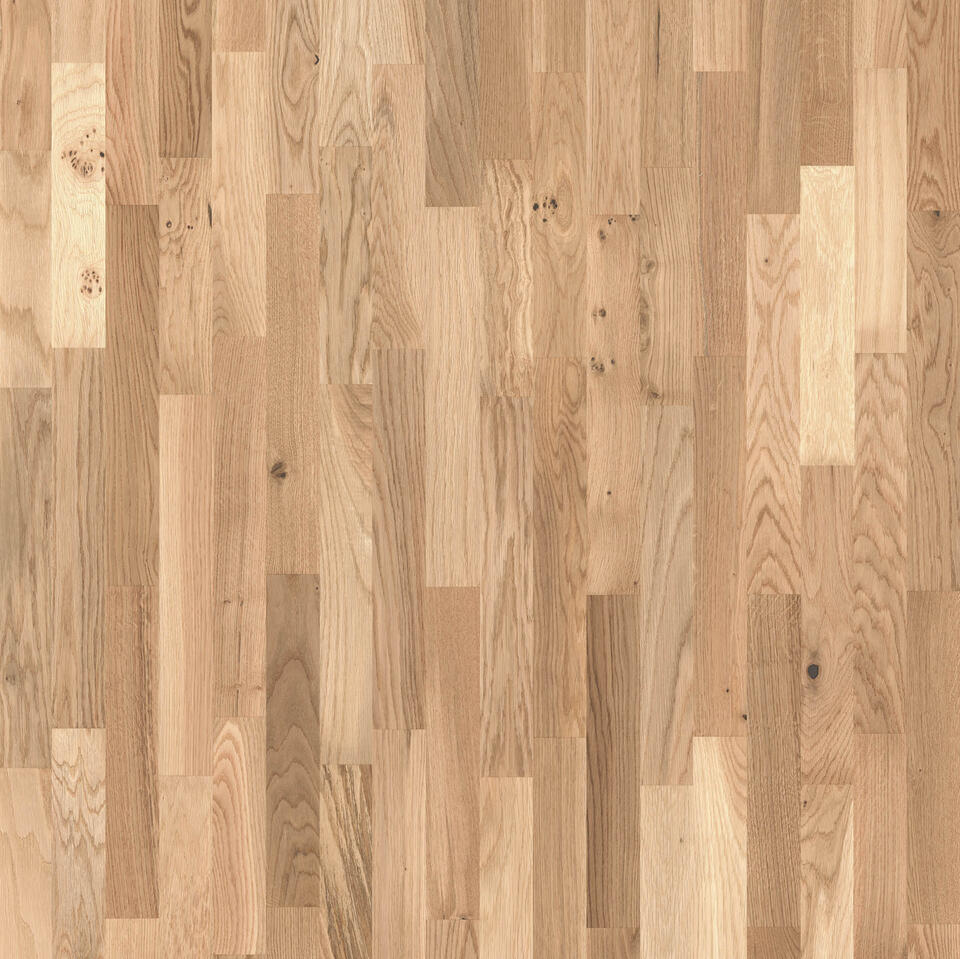
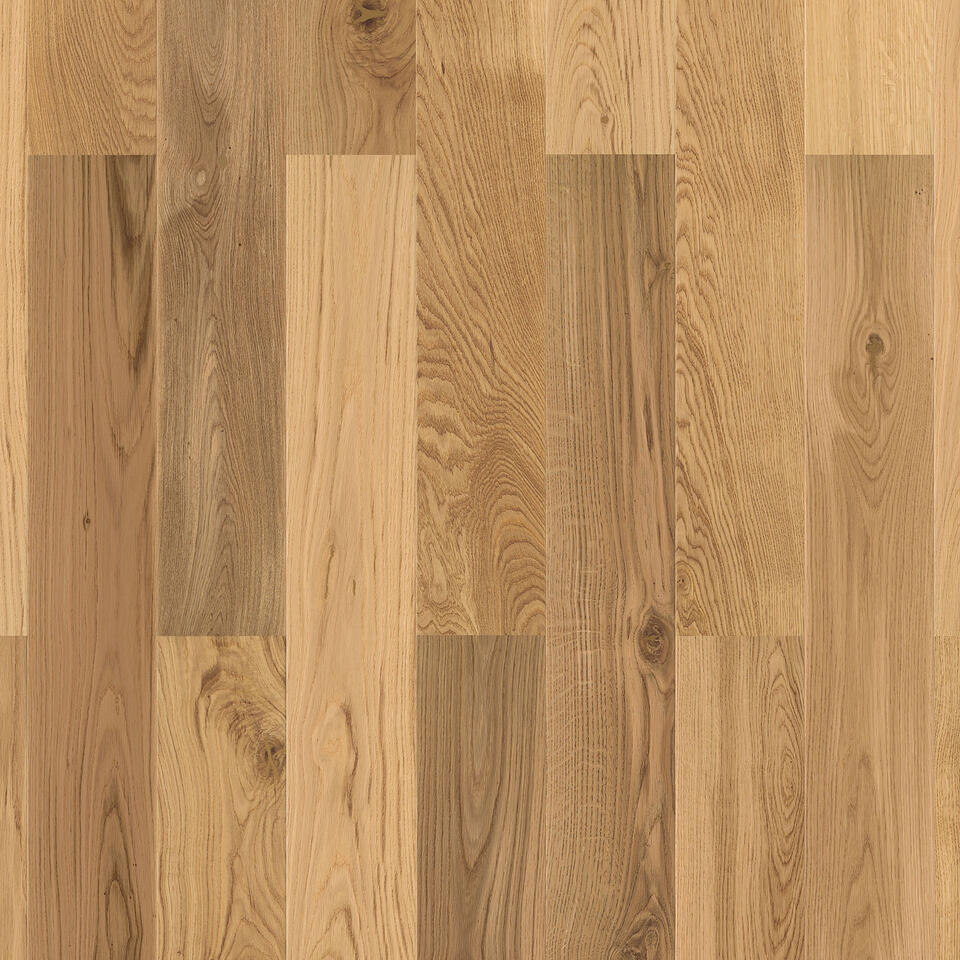
feat: Tango parket kolekcija - 7 dezena, opis i specifikacije; Hrast Vivid slika; root slike uklonjene

diff --git a/lib/data/tarkett-products.ts b/lib/data/tarkett-products.ts
@@ -1408,27 +1408,30 @@ export const tarkettProducts: Product[] = [
     "categoryId": "3",
     "brandId": "3",
     "shortDescription": "Tango Parket",
-    "description": "Tražite li parket koji će vašem prostoru dati impresivan izgled, uz dašak luksuza? Parket iz kolekcije Tango napravljen je od najfinijeg, visokokvalitetnog drveta iz Evrope i sveta.",
+    "description": "Tražite li parket koji će vašem prostoru dati impresivan izgled, uz dašak luksuza? Parket iz kolekcije Tango napravljen je od najfinijeg, visokokvalitetnog drveta iz Evrope i sveta. Prirodna struktura drveta dodatno se tretira bojom i brušenjem, stvarajući raznovrsne dezene i stilove - od dasaka koje imaju egzotičan šmek, preko tradicionalnih, modernih, retro i rustičnih. U okviru parket Tango kolekcije, na raspolaganju imate preko deset nijansi parketa (uz odgovarajući asortiman lajsni), te najzad možete da kreirate ambijent kakav ste oduvek želeli. U pitanju je Tarkett parket koji je izdržljiv i dugotrajan, a instalacija parketa je brza i jednostavna uz T-Lock sistem, a parket je spreman za upotrebu odmah nakon ugradnje. Zbog površinske zaštite (Proteco Strong lak), čišćenje parketa je lako, a održavanje ekonomično. Udobnost, privlačan dizajn i 30 godina Tarkett garancije čine Tango parkete sjajnim izborom.",
     "images": [
       {
         "id": "parket-tango-img",
-        "url": "https://media.tarkett-image.com/large/IN_SEE_Parket_Tango_Oak_Baron.jpg",
+        "url": "/images/products/hrast-antique-white-1-strip.jpg",
         "alt": "Tango",
         "isPrimary": true,
         "order": 0
       }
     ],
     "specs": [
-      {
-        "key": "collection",
-        "label": "Kolekcija",
-        "value": "Tango"
-      },
-      {
-        "key": "type",
-        "label": "Tip",
-        "value": "Parket"
-      }
+      { "key": "collection", "label": "Kolekcija", "value": "Tango" },
+      { "key": "type", "label": "Tip", "value": "Parket" },
+      { "key": "povrsinski_tretman", "label": "Površinski tretman", "value": "Proteco Natura, Proteco Lak" },
+      { "key": "ukupna_debljina", "label": "Ukupna debljina", "value": "14 mm" },
+      { "key": "povrsina_po_kutiji", "label": "Površina po kutiji", "value": "2,180 m²" },
+      { "key": "debljina_habajuceg_sloja", "label": "Debljina habajućeg sloja", "value": "2,80 mm" },
+      { "key": "ukupna_masa", "label": "Ukupna masa", "value": "7,5 kg/m²" },
+      { "key": "sistem_zakljucavanja", "label": "Sistem zaključavanja", "value": "T-Lock" },
+      { "key": "wood_type", "label": "Vrste drveta", "value": "Hrast" },
+      { "key": "tip_formata", "label": "Tip formata", "value": "Daska" },
+      { "key": "duzina", "label": "Dužina", "value": "2215 mm" },
+      { "key": "sirina", "label": "Širina", "value": "164 mm" },
+      { "key": "broj_artikala_po_kutiji", "label": "Broj artikala po kutiji", "value": "6" }
     ],
     "detailsSections": [
       {
@@ -2338,34 +2341,26 @@ export const tarkettProducts: Product[] = [
     updatedAt: new Date("2026-01-29T19:17:36.174Z")
   },
   {
-    "id": "oak-antique-white-1-strip",
+    "id": "hrast-antique-white-1-strip",
     "name": "Hrast ANTIQUE WHITE 1 Strip",
     "slug": "hrast-antique-white-1-strip",
     "sku": "oak-antique-white-1-strip",
     "categoryId": "3",
     "brandId": "3",
-    "shortDescription": "oak-antique-white-1-strip - Visokokvalitetni Tarkett parket.",
-    "description": "Tarkett Parket.",
+    "shortDescription": "Tango - Hrast ANTIQUE WHITE 1 Strip",
+    "description": "Tražite li parket koji će vašem prostoru dati impresivan izgled, uz dašak luksuza? Parket iz kolekcije Tango napravljen je od najfinijeg, visokokvalitetnog drveta iz Evrope i sveta.",
     "images": [
       {
-        "id": "oak-antique-white-1-strip-img",
-        "url": "https://media.tarkett-image.com/large/TH_1_Strip_Tango_Oak_Antique_White.jpg",
+        "id": "hrast-antique-white-1-strip-img",
+        "url": "/images/products/hrast-antique-white-1-strip.jpg",
         "alt": "Hrast ANTIQUE WHITE 1 Strip",
         "isPrimary": true,
         "order": 0
       }
     ],
     "specs": [
-      {
-        "key": "manufacturer",
-        "label": "Proizvođač",
-        "value": "Tarkett"
-      },
-      {
-        "key": "collection",
-        "label": "Kolekcija",
-        "value": "Parket"
-      }
+      { "key": "collection", "label": "Kolekcija", "value": "Tango" },
+      { "key": "wood_type", "label": "Vrste drveta", "value": "Hrast" }
     ],
     "price": 0,
     "priceUnit": "m²",
@@ -2412,34 +2407,26 @@ export const tarkettProducts: Product[] = [
     updatedAt: new Date("2026-01-29T19:17:37.067Z")
   },
   {
-    "id": "oak-copper-1-strip",
+    "id": "tango-hrast-copper-1-strip",
     "name": "Hrast COPPER 1 Strip",
-    "slug": "hrast-copper-1-strip",
+    "slug": "tango-hrast-copper-1-strip",
     "sku": "oak-copper-1-strip",
     "categoryId": "3",
     "brandId": "3",
-    "shortDescription": "oak-copper-1-strip - Visokokvalitetni Tarkett parket.",
-    "description": "Tarkett Parket.",
+    "shortDescription": "Tango - Hrast COPPER 1 Strip",
+    "description": "Tražite li parket koji će vašem prostoru dati impresivan izgled, uz dašak luksuza? Parket iz kolekcije Tango napravljen je od najfinijeg, visokokvalitetnog drveta iz Evrope i sveta.",
     "images": [
       {
-        "id": "oak-copper-1-strip-img",
-        "url": "https://media.tarkett-image.com/large/TH_1_Strip_Tango_Oak_Copper.jpg",
+        "id": "tango-hrast-copper-1-strip-img",
+        "url": "/images/products/tango-hrast-copper-1-strip.jpg",
         "alt": "Hrast COPPER 1 Strip",
         "isPrimary": true,
         "order": 0
       }
     ],
     "specs": [
-      {
-        "key": "manufacturer",
-        "label": "Proizvođač",
-        "value": "Tarkett"
-      },
-      {
-        "key": "collection",
-        "label": "Kolekcija",
-        "value": "Parket"
-      }
+      { "key": "collection", "label": "Kolekcija", "value": "Tango" },
+      { "key": "wood_type", "label": "Vrste drveta", "value": "Hrast" }
     ],
     "price": 0,
     "priceUnit": "m²",
@@ -2486,34 +2473,26 @@ export const tarkettProducts: Product[] = [
     updatedAt: new Date("2026-01-29T19:17:37.067Z")
   },
   {
-    "id": "oak-mocha-1-strip",
+    "id": "hrast-mocha-1-strip",
     "name": "Hrast MOCHA 1 Strip",
     "slug": "hrast-mocha-1-strip",
     "sku": "oak-mocha-1-strip",
     "categoryId": "3",
     "brandId": "3",
-    "shortDescription": "oak-mocha-1-strip - Visokokvalitetni Tarkett parket.",
-    "description": "Tarkett Parket.",
+    "shortDescription": "Tango - Hrast MOCHA 1 Strip",
+    "description": "Tražite li parket koji će vašem prostoru dati impresivan izgled, uz dašak luksuza? Parket iz kolekcije Tango napravljen je od najfinijeg, visokokvalitetnog drveta iz Evrope i sveta.",
     "images": [
       {
-        "id": "oak-mocha-1-strip-img",
-        "url": "https://media.tarkett-image.com/large/TH_1_Strip_Tango_Oak_Mocha.jpg",
+        "id": "hrast-mocha-1-strip-img",
+        "url": "/images/products/hrast-mocha-1-strip.jpg",
         "alt": "Hrast MOCHA 1 Strip",
         "isPrimary": true,
         "order": 0
       }
     ],
     "specs": [
-      {
-        "key": "manufacturer",
-        "label": "Proizvođač",
-        "value": "Tarkett"
-      },
-      {
-        "key": "collection",
-        "label": "Kolekcija",
-        "value": "Parket"
-      }
+      { "key": "collection", "label": "Kolekcija", "value": "Tango" },
+      { "key": "wood_type", "label": "Vrste drveta", "value": "Hrast" }
     ],
     "price": 0,
     "priceUnit": "m²",
@@ -2560,34 +2539,26 @@ export const tarkettProducts: Product[] = [
     updatedAt: new Date("2026-01-29T19:17:37.067Z")
   },
   {
-    "id": "oak-schwarzwald-1-strip",
+    "id": "hrast-schwarzwald-1-strip",
     "name": "Hrast SCHWARZWALD 1 Strip",
     "slug": "hrast-schwarzwald-1-strip",
     "sku": "oak-schwarzwald-1-strip",
     "categoryId": "3",
     "brandId": "3",
-    "shortDescription": "oak-schwarzwald-1-strip - Visokokvalitetni Tarkett parket.",
-    "description": "Tarkett Parket.",
+    "shortDescription": "Tango - Hrast SCHWARZWALD 1 Strip",
+    "description": "Tražite li parket koji će vašem prostoru dati impresivan izgled, uz dašak luksuza? Parket iz kolekcije Tango napravljen je od najfinijeg, visokokvalitetnog drveta iz Evrope i sveta.",
     "images": [
       {
-        "id": "oak-schwarzwald-1-strip-img",
-        "url": "https://media.tarkett-image.com/large/TH_1_Strip_Tango_Oak_Schwarzwald.jpg",
+        "id": "hrast-schwarzwald-1-strip-img",
+        "url": "/images/products/hrast-schwarzwald-1-strip.jpg",
         "alt": "Hrast SCHWARZWALD 1 Strip",
         "isPrimary": true,
         "order": 0
       }
     ],
     "specs": [
-      {
-        "key": "manufacturer",
-        "label": "Proizvođač",
-        "value": "Tarkett"
-      },
-      {
-        "key": "collection",
-        "label": "Kolekcija",
-        "value": "Parket"
-      }
+      { "key": "collection", "label": "Kolekcija", "value": "Tango" },
+      { "key": "wood_type", "label": "Vrste drveta", "value": "Hrast" }
     ],
     "price": 0,
     "priceUnit": "m²",

diff --git a/lib/data/parket-collection-mapping.ts b/lib/data/parket-collection-mapping.ts
@@ -2,7 +2,7 @@
  * Mapiranje parket varijanti (boja/dezena) na Tarkett kolekcije.
  * Izvor: https://www.tarkett.rs/sr_RS/kategorija-rs_C01012-parket
  * - Rumba: 3-strip hrast (npr. Oak Copper, Chocolate, Cocoa)
- * - Tango: 1-strip hrast
+ * - Tango: 7 dezena 1-strip (Antique White, Bourbon, Copper, Cumin, Mocha, Premium, Schwarzwald)
  * - Tango Classic: klasične nijanse (Almond, Sepia, Sienna, Cottage, Bright, Copper - bez strip)
  * - Salsa: 2-strip hrast
  * - Salsa Premium: premium 3-strip (Jasper, Moonstone, White Lightning)
@@ -232,6 +232,15 @@ const PARKET_COLLECTION_VARIANT_SLUGS: Record<string, string[]> = {
     'hrast-golden',
     'hrast-original',
     'hrast-polar',
+  ],
+  [COLLECTION_TANGO]: [
+    'hrast-antique-white-1-strip',
+    'hrast-bourbon-1-strip',
+    'tango-hrast-copper-1-strip',
+    'hrast-cumin-1-strip',
+    'hrast-mocha-1-strip',
+    'tango-hrast-premium-1-strip',
+    'hrast-schwarzwald-1-strip',
   ],
 };
 
